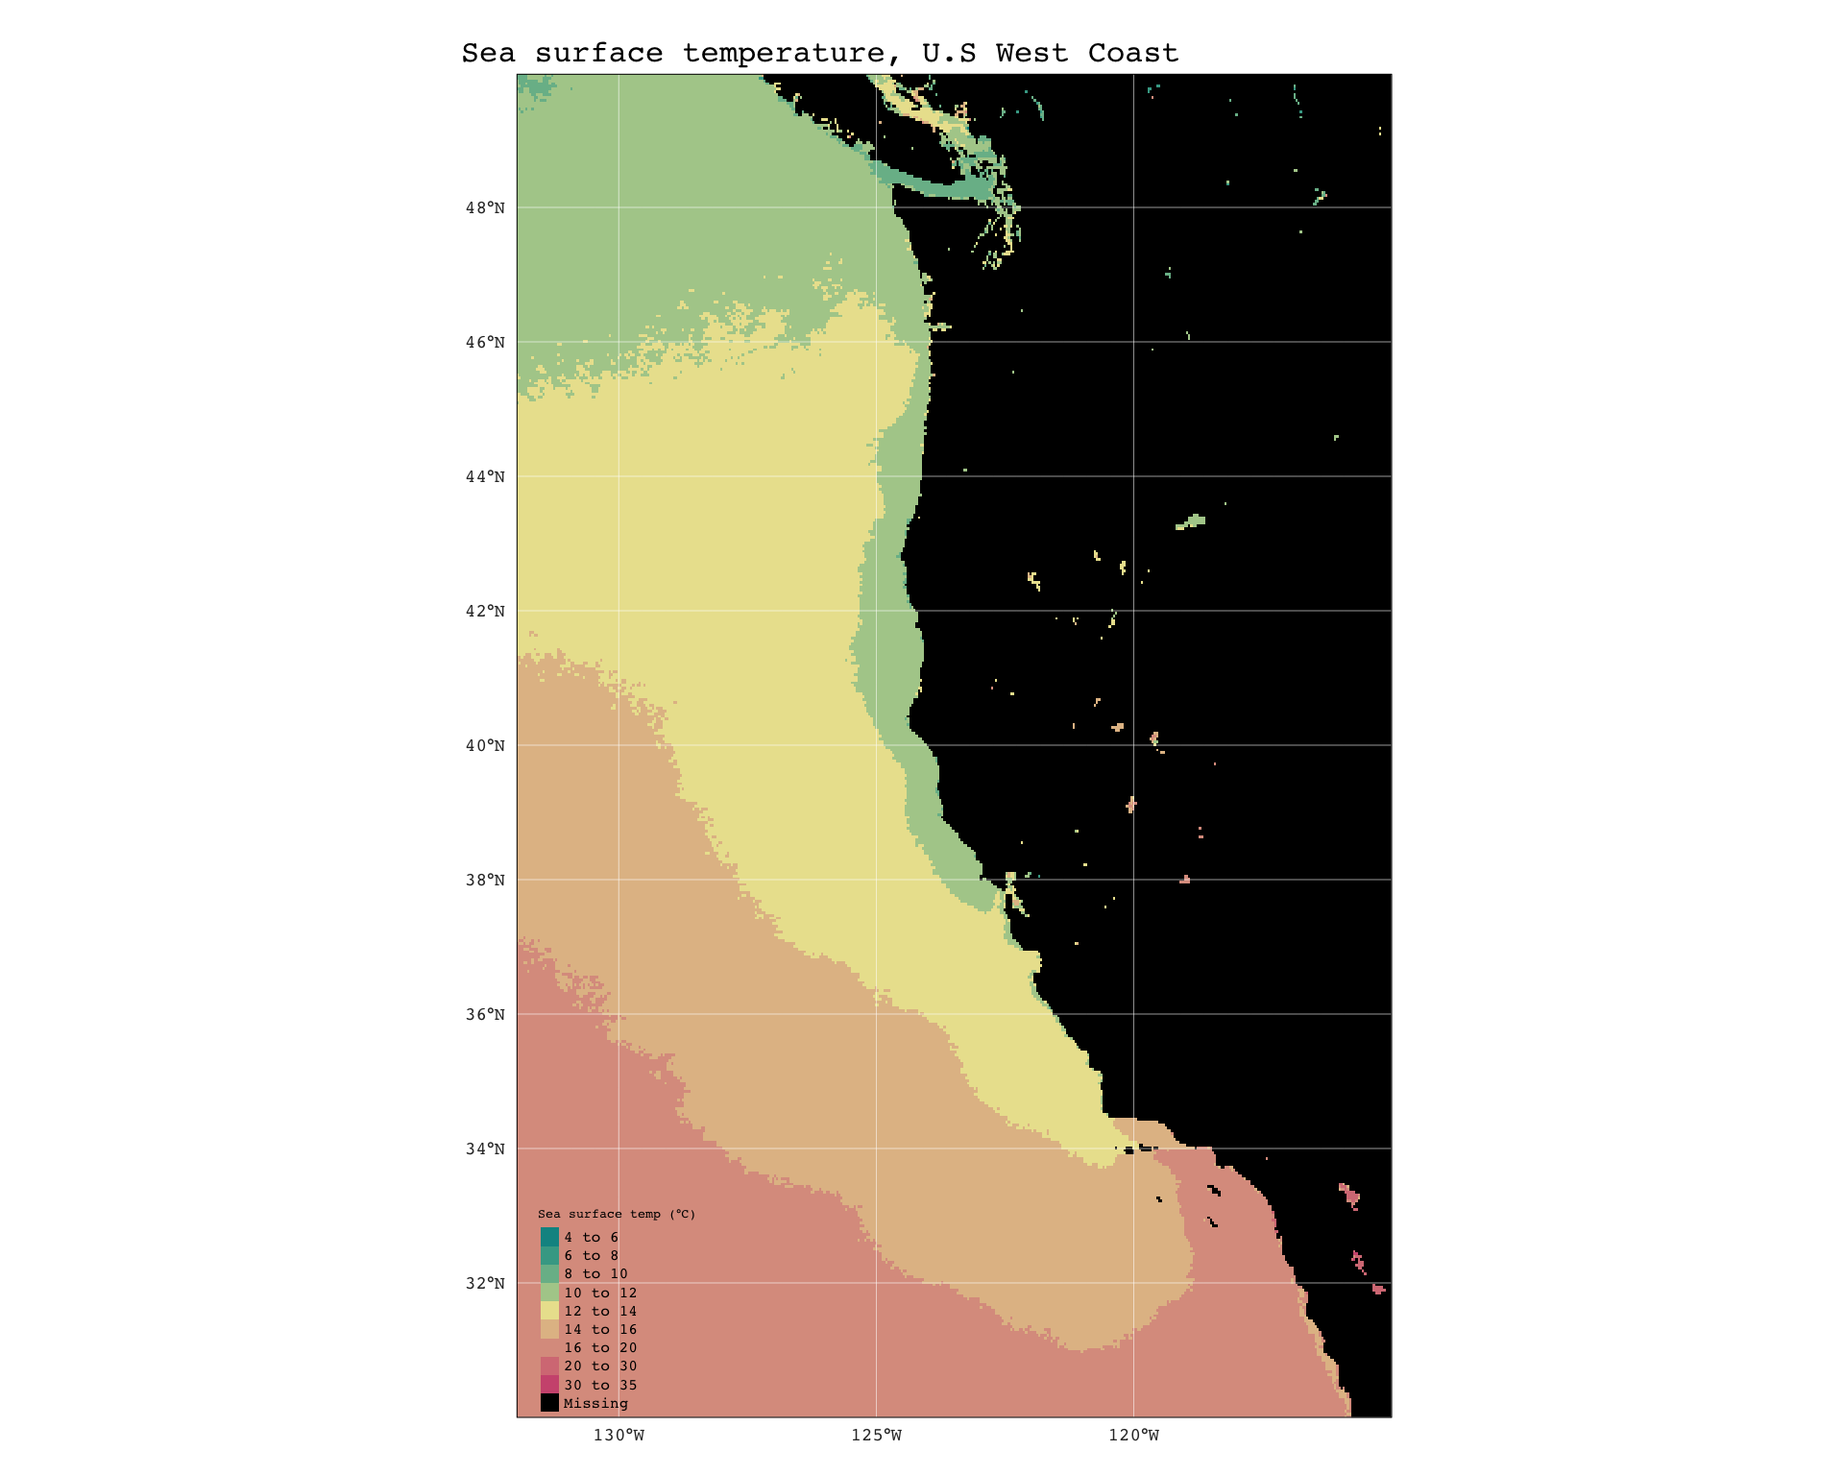
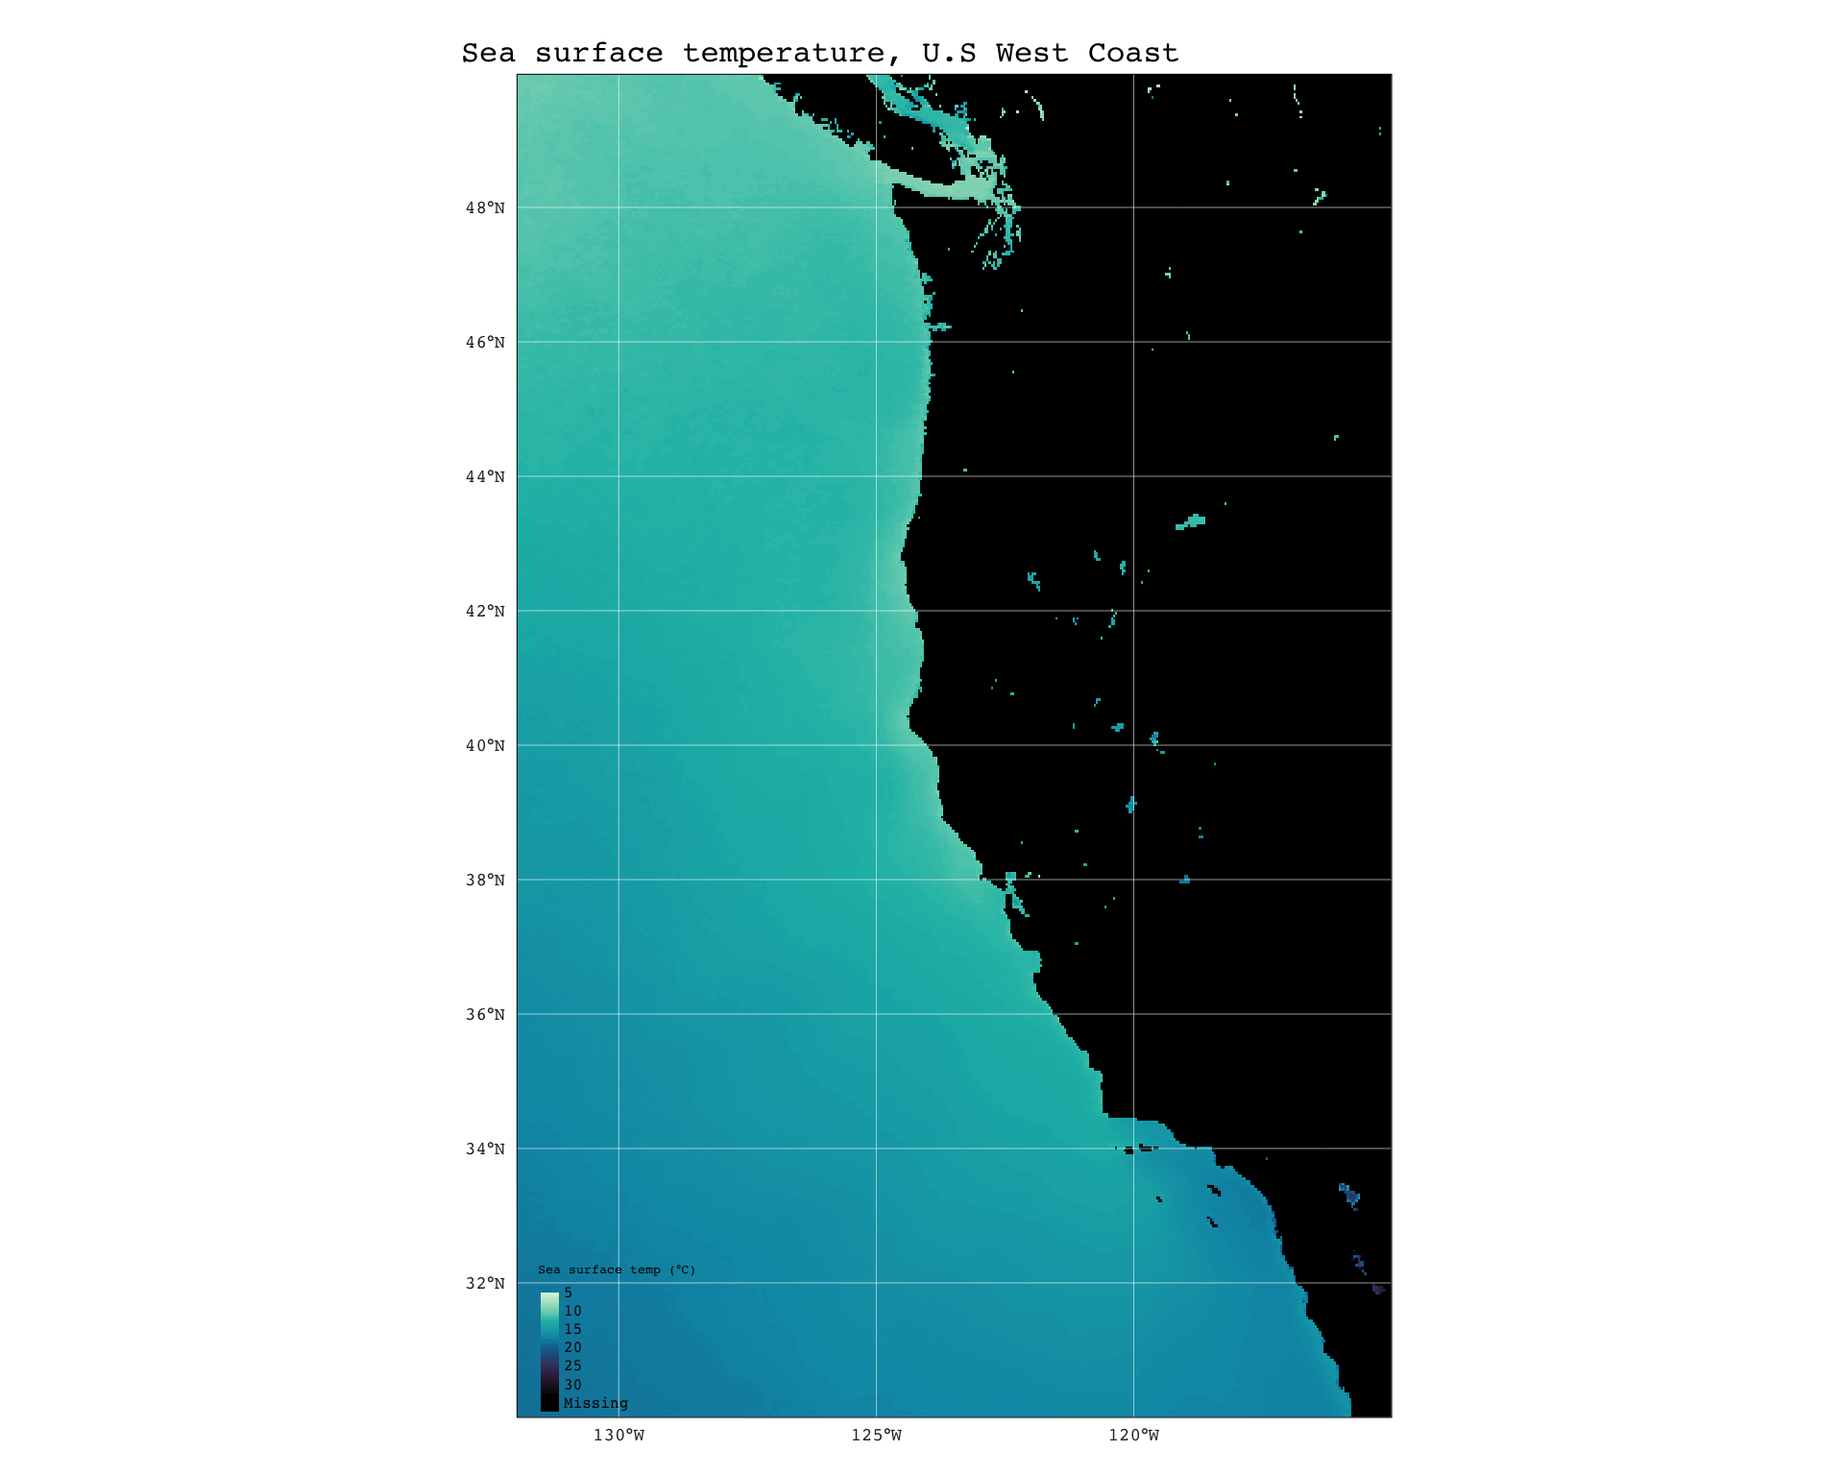
saving progress

Changed region(s): [[0.2812, 0.0312, 0.75, 0.9688]]

diff --git a/HW4.html b/HW4.html
@@ -172,8 +172,8 @@ pre > code.sourceCode > span > a:first-child::before { text-decoration: underlin
 </div>
 <div class="cell">
 <div class="sourceCode cell-code" id="cb12"><pre class="sourceCode r code-with-copy"><code class="sourceCode r"><span id="cb12-1"><a href="#cb12-1" aria-hidden="true" tabindex="-1"></a>map1 <span class="ot">&lt;-</span> <span class="fu">tm_shape</span>(mean_sst) <span class="sc">+</span></span>
-<span id="cb12-2"><a href="#cb12-2" aria-hidden="true" tabindex="-1"></a>  <span class="fu">tm_raster</span>(<span class="at">palette =</span> <span class="fu">hcl.colors</span>(<span class="dv">3</span>,<span class="st">"Temps"</span>),</span>
-<span id="cb12-3"><a href="#cb12-3" aria-hidden="true" tabindex="-1"></a>            <span class="at">breaks =</span> <span class="fu">c</span>(<span class="dv">4</span>,<span class="dv">6</span>,<span class="dv">8</span>,<span class="dv">10</span>,<span class="dv">12</span>,<span class="dv">14</span>,<span class="dv">16</span>,<span class="dv">20</span>,<span class="dv">30</span>,<span class="dv">35</span>),</span>
+<span id="cb12-2"><a href="#cb12-2" aria-hidden="true" tabindex="-1"></a>  <span class="fu">tm_raster</span>(<span class="at">palette =</span> <span class="fu">rev</span>(<span class="fu">hcl.colors</span>(<span class="dv">8</span>,<span class="st">"Mako"</span>)),</span>
+<span id="cb12-3"><a href="#cb12-3" aria-hidden="true" tabindex="-1"></a>            <span class="at">style =</span> <span class="st">"cont"</span>,</span>
 <span id="cb12-4"><a href="#cb12-4" aria-hidden="true" tabindex="-1"></a>            <span class="at">colorNA =</span> <span class="st">"black"</span>,</span>
 <span id="cb12-5"><a href="#cb12-5" aria-hidden="true" tabindex="-1"></a>            <span class="at">title =</span> <span class="st">"Sea surface temp (°C)"</span>,</span>
 <span id="cb12-6"><a href="#cb12-6" aria-hidden="true" tabindex="-1"></a>            ) <span class="sc">+</span></span>
@@ -220,47 +220,73 @@ pre > code.sourceCode > span > a:first-child::before { text-decoration: underlin
 <div class="cell">
 <div class="sourceCode cell-code" id="cb16"><pre class="sourceCode r code-with-copy"><code class="sourceCode r"><span id="cb16-1"><a href="#cb16-1" aria-hidden="true" tabindex="-1"></a><span class="co"># match extents and resample to mean_sst resolution using nearest neighbor ("near")</span></span>
 <span id="cb16-2"><a href="#cb16-2" aria-hidden="true" tabindex="-1"></a>depth_resampled <span class="ot">&lt;-</span> <span class="fu">st_warp</span>(depth,mean_sst, <span class="at">method =</span> <span class="st">"near"</span>)</span>
-<span id="cb16-3"><a href="#cb16-3" aria-hidden="true" tabindex="-1"></a></span>
-<span id="cb16-4"><a href="#cb16-4" aria-hidden="true" tabindex="-1"></a><span class="co"># stack to verify</span></span>
-<span id="cb16-5"><a href="#cb16-5" aria-hidden="true" tabindex="-1"></a>depth_sst <span class="ot">&lt;-</span> <span class="fu">c</span>(depth_resampled,mean_sst)</span>
-<span id="cb16-6"><a href="#cb16-6" aria-hidden="true" tabindex="-1"></a><span class="co"># stacked successfully </span></span></code><button title="Copy to Clipboard" class="code-copy-button"><i class="bi"></i></button></pre></div>
+<span id="cb16-3"><a href="#cb16-3" aria-hidden="true" tabindex="-1"></a><span class="co"># stack to verify</span></span>
+<span id="cb16-4"><a href="#cb16-4" aria-hidden="true" tabindex="-1"></a>depth_sst <span class="ot">&lt;-</span> <span class="fu">c</span>(depth_resampled,mean_sst)</span>
+<span id="cb16-5"><a href="#cb16-5" aria-hidden="true" tabindex="-1"></a><span class="co"># stacked successfully </span></span></code><button title="Copy to Clipboard" class="code-copy-button"><i class="bi"></i></button></pre></div>
 </div>
 </section>
 <section id="find-suitable-locations-for-oysters" class="level5">
 <h5 class="anchored" data-anchor-id="find-suitable-locations-for-oysters">Find suitable locations for oysters</h5>
 <div class="cell">
-<div class="sourceCode cell-code" id="cb17"><pre class="sourceCode r code-with-copy"><code class="sourceCode r"><span id="cb17-1"><a href="#cb17-1" aria-hidden="true" tabindex="-1"></a>rcl <span class="ot">&lt;-</span> <span class="fu">matrix</span>(<span class="fu">c</span>(<span class="sc">-</span><span class="cn">Inf</span>, <span class="dv">10</span>, <span class="cn">NA</span>,</span>
-<span id="cb17-2"><a href="#cb17-2" aria-hidden="true" tabindex="-1"></a>                 <span class="dv">11</span>, <span class="dv">30</span>, <span class="dv">1</span>,</span>
-<span id="cb17-3"><a href="#cb17-3" aria-hidden="true" tabindex="-1"></a>                 <span class="dv">31</span>, <span class="cn">Inf</span>, <span class="cn">NA</span>),</span>
+<div class="sourceCode cell-code" id="cb17"><pre class="sourceCode r code-with-copy"><code class="sourceCode r"><span id="cb17-1"><a href="#cb17-1" aria-hidden="true" tabindex="-1"></a>rcl <span class="ot">&lt;-</span> <span class="fu">matrix</span>(<span class="fu">c</span>(<span class="sc">-</span><span class="cn">Inf</span>, <span class="dv">11</span>, <span class="dv">0</span>,</span>
+<span id="cb17-2"><a href="#cb17-2" aria-hidden="true" tabindex="-1"></a>                <span class="dv">11</span>, <span class="dv">30</span>, <span class="dv">1</span>,</span>
+<span id="cb17-3"><a href="#cb17-3" aria-hidden="true" tabindex="-1"></a>                <span class="dv">30</span>, <span class="cn">Inf</span>, <span class="dv">0</span>),</span>
 <span id="cb17-4"><a href="#cb17-4" aria-hidden="true" tabindex="-1"></a>                <span class="at">ncol =</span> <span class="dv">3</span>, <span class="at">byrow =</span> <span class="cn">TRUE</span>)</span>
 <span id="cb17-5"><a href="#cb17-5" aria-hidden="true" tabindex="-1"></a></span>
-<span id="cb17-6"><a href="#cb17-6" aria-hidden="true" tabindex="-1"></a>reclassified <span class="ot">&lt;-</span> <span class="fu">classify</span>(<span class="fu">rast</span>(depth_resampled), <span class="at">rcl =</span> rcl)</span>
+<span id="cb17-6"><a href="#cb17-6" aria-hidden="true" tabindex="-1"></a>reclassified <span class="ot">&lt;-</span> <span class="fu">classify</span>(<span class="fu">rast</span>(mean_sst), <span class="at">rcl =</span> rcl)</span>
 <span id="cb17-7"><a href="#cb17-7" aria-hidden="true" tabindex="-1"></a></span>
-<span id="cb17-8"><a href="#cb17-8" aria-hidden="true" tabindex="-1"></a><span class="co"># reclassified[reclassified == 0] &lt;- NA </span></span>
-<span id="cb17-9"><a href="#cb17-9" aria-hidden="true" tabindex="-1"></a></span>
-<span id="cb17-10"><a href="#cb17-10" aria-hidden="true" tabindex="-1"></a>map2 <span class="ot">&lt;-</span> <span class="fu">tm_shape</span>(reclassified) <span class="sc">+</span></span>
-<span id="cb17-11"><a href="#cb17-11" aria-hidden="true" tabindex="-1"></a>  <span class="fu">tm_raster</span>(<span class="at">palette =</span> <span class="fu">hcl.colors</span>(<span class="dv">3</span>,<span class="st">"Temps"</span>),</span>
-<span id="cb17-12"><a href="#cb17-12" aria-hidden="true" tabindex="-1"></a>            <span class="at">breaks =</span> <span class="fu">seq</span>(<span class="dv">11</span>,<span class="dv">30</span>, <span class="at">by =</span> <span class="dv">1</span>),</span>
-<span id="cb17-13"><a href="#cb17-13" aria-hidden="true" tabindex="-1"></a>            <span class="at">colorNA =</span> <span class="st">"white"</span>,</span>
-<span id="cb17-14"><a href="#cb17-14" aria-hidden="true" tabindex="-1"></a>            <span class="at">title =</span> <span class="st">"Sea surface temp (°C)"</span>,</span>
-<span id="cb17-15"><a href="#cb17-15" aria-hidden="true" tabindex="-1"></a>            ) <span class="sc">+</span></span>
-<span id="cb17-16"><a href="#cb17-16" aria-hidden="true" tabindex="-1"></a>  <span class="fu">tm_graticules</span>(<span class="at">lwd =</span> <span class="fl">0.3</span>, </span>
-<span id="cb17-17"><a href="#cb17-17" aria-hidden="true" tabindex="-1"></a>                <span class="at">col =</span> <span class="st">"white"</span>) <span class="sc">+</span></span>
-<span id="cb17-18"><a href="#cb17-18" aria-hidden="true" tabindex="-1"></a>  <span class="fu">tm_layout</span>(<span class="at">fontfamily =</span> <span class="st">"courier"</span>,</span>
-<span id="cb17-19"><a href="#cb17-19" aria-hidden="true" tabindex="-1"></a>            <span class="at">main.title =</span> <span class="st">"Sea surface temperature, U.S West Coast"</span>,</span>
-<span id="cb17-20"><a href="#cb17-20" aria-hidden="true" tabindex="-1"></a>            <span class="at">main.title.size =</span> <span class="dv">1</span>,</span>
-<span id="cb17-21"><a href="#cb17-21" aria-hidden="true" tabindex="-1"></a>            <span class="at">legend.position =</span> <span class="fu">c</span>(<span class="st">"left"</span>,<span class="st">"BOTTOM"</span>),</span>
-<span id="cb17-22"><a href="#cb17-22" aria-hidden="true" tabindex="-1"></a>            <span class="at">legend.text.size =</span> <span class="fl">0.5</span>,</span>
-<span id="cb17-23"><a href="#cb17-23" aria-hidden="true" tabindex="-1"></a>            <span class="at">legend.title.color =</span> <span class="st">"black"</span>,</span>
-<span id="cb17-24"><a href="#cb17-24" aria-hidden="true" tabindex="-1"></a>            <span class="at">legend.text.color =</span> <span class="st">"black"</span>,</span>
-<span id="cb17-25"><a href="#cb17-25" aria-hidden="true" tabindex="-1"></a>            <span class="at">legend.height =</span> <span class="dv">5</span>,</span>
-<span id="cb17-26"><a href="#cb17-26" aria-hidden="true" tabindex="-1"></a>            <span class="at">legend.title.size =</span> <span class="fl">0.5</span>)</span>
-<span id="cb17-27"><a href="#cb17-27" aria-hidden="true" tabindex="-1"></a></span>
-<span id="cb17-28"><a href="#cb17-28" aria-hidden="true" tabindex="-1"></a>map2</span></code><button title="Copy to Clipboard" class="code-copy-button"><i class="bi"></i></button></pre></div>
+<span id="cb17-8"><a href="#cb17-8" aria-hidden="true" tabindex="-1"></a>map2 <span class="ot">&lt;-</span> <span class="fu">tm_shape</span>(reclassified <span class="sc">==</span> <span class="dv">1</span>) <span class="sc">+</span></span>
+<span id="cb17-9"><a href="#cb17-9" aria-hidden="true" tabindex="-1"></a>  <span class="fu">tm_raster</span>(<span class="at">palette =</span> <span class="fu">c</span>(<span class="st">"indianred"</span>,<span class="st">"skyblue"</span>),</span>
+<span id="cb17-10"><a href="#cb17-10" aria-hidden="true" tabindex="-1"></a>            <span class="at">style =</span> <span class="st">"cat"</span>,</span>
+<span id="cb17-11"><a href="#cb17-11" aria-hidden="true" tabindex="-1"></a>            <span class="at">breaks =</span> <span class="fu">c</span>(<span class="dv">11</span>,<span class="dv">14</span>, <span class="dv">17</span>, <span class="dv">20</span>, <span class="dv">23</span>, <span class="dv">26</span>, <span class="dv">29</span>, <span class="dv">30</span>),</span>
+<span id="cb17-12"><a href="#cb17-12" aria-hidden="true" tabindex="-1"></a>            <span class="at">colorNA =</span> <span class="st">"black"</span>,</span>
+<span id="cb17-13"><a href="#cb17-13" aria-hidden="true" tabindex="-1"></a>            <span class="at">title =</span> <span class="st">"Sea surface temp (°C)"</span>,</span>
+<span id="cb17-14"><a href="#cb17-14" aria-hidden="true" tabindex="-1"></a>            ) <span class="sc">+</span></span>
+<span id="cb17-15"><a href="#cb17-15" aria-hidden="true" tabindex="-1"></a>  <span class="fu">tm_graticules</span>(<span class="at">lwd =</span> <span class="fl">0.3</span>, </span>
+<span id="cb17-16"><a href="#cb17-16" aria-hidden="true" tabindex="-1"></a>                <span class="at">col =</span> <span class="st">"white"</span>) <span class="sc">+</span></span>
+<span id="cb17-17"><a href="#cb17-17" aria-hidden="true" tabindex="-1"></a>  <span class="fu">tm_layout</span>(<span class="at">fontfamily =</span> <span class="st">"courier"</span>,</span>
+<span id="cb17-18"><a href="#cb17-18" aria-hidden="true" tabindex="-1"></a>            <span class="at">main.title =</span> <span class="st">"Sea surface temperature, U.S West Coast"</span>,</span>
+<span id="cb17-19"><a href="#cb17-19" aria-hidden="true" tabindex="-1"></a>            <span class="at">main.title.size =</span> <span class="dv">1</span>,</span>
+<span id="cb17-20"><a href="#cb17-20" aria-hidden="true" tabindex="-1"></a>            <span class="at">legend.position =</span> <span class="fu">c</span>(<span class="st">"left"</span>,<span class="st">"BOTTOM"</span>),</span>
+<span id="cb17-21"><a href="#cb17-21" aria-hidden="true" tabindex="-1"></a>            <span class="at">legend.text.size =</span> <span class="fl">0.5</span>,</span>
+<span id="cb17-22"><a href="#cb17-22" aria-hidden="true" tabindex="-1"></a>            <span class="at">legend.title.color =</span> <span class="st">"white"</span>,</span>
+<span id="cb17-23"><a href="#cb17-23" aria-hidden="true" tabindex="-1"></a>            <span class="at">legend.text.color =</span> <span class="st">"white"</span>,</span>
+<span id="cb17-24"><a href="#cb17-24" aria-hidden="true" tabindex="-1"></a>            <span class="at">legend.height =</span> <span class="dv">5</span>,</span>
+<span id="cb17-25"><a href="#cb17-25" aria-hidden="true" tabindex="-1"></a>            <span class="at">legend.title.size =</span> <span class="fl">0.5</span>,</span>
+<span id="cb17-26"><a href="#cb17-26" aria-hidden="true" tabindex="-1"></a>            <span class="at">inner.margins =</span> <span class="fu">c</span>(<span class="fl">0.001</span>, <span class="fl">0.001</span>, <span class="fl">0.001</span>, <span class="fl">0.001</span>))</span>
+<span id="cb17-27"><a href="#cb17-27" aria-hidden="true" tabindex="-1"></a>map2</span></code><button title="Copy to Clipboard" class="code-copy-button"><i class="bi"></i></button></pre></div>
 <div class="cell-output-display">
 <div>
 <figure class="figure">
-<p><img src="HW4_files/figure-html/unnamed-chunk-8-1.png" class="img-fluid figure-img" width="672"></p>
+<p><img src="HW4_files/figure-html/unnamed-chunk-8-1.png" class="img-fluid figure-img" width="960"></p>
+</figure>
+</div>
+</div>
+</div>
+<div class="cell">
+<div class="sourceCode cell-code" id="cb18"><pre class="sourceCode r code-with-copy"><code class="sourceCode r"><span id="cb18-1"><a href="#cb18-1" aria-hidden="true" tabindex="-1"></a>map3 <span class="ot">&lt;-</span> <span class="fu">tm_shape</span>(depth_resampled) <span class="sc">+</span></span>
+<span id="cb18-2"><a href="#cb18-2" aria-hidden="true" tabindex="-1"></a>  <span class="fu">tm_raster</span>(<span class="at">palette =</span> <span class="fu">rev</span>(<span class="fu">hcl.colors</span>(<span class="dv">8</span>,<span class="st">"Mako"</span>)),</span>
+<span id="cb18-3"><a href="#cb18-3" aria-hidden="true" tabindex="-1"></a>            <span class="at">style =</span> <span class="st">"cont"</span>,</span>
+<span id="cb18-4"><a href="#cb18-4" aria-hidden="true" tabindex="-1"></a>            <span class="at">colorNA =</span> <span class="st">"black"</span>,</span>
+<span id="cb18-5"><a href="#cb18-5" aria-hidden="true" tabindex="-1"></a>            <span class="at">title =</span> <span class="st">"Sea surface temp (°C)"</span>,</span>
+<span id="cb18-6"><a href="#cb18-6" aria-hidden="true" tabindex="-1"></a>            ) <span class="sc">+</span></span>
+<span id="cb18-7"><a href="#cb18-7" aria-hidden="true" tabindex="-1"></a>  <span class="fu">tm_graticules</span>(<span class="at">lwd =</span> <span class="fl">0.3</span>, </span>
+<span id="cb18-8"><a href="#cb18-8" aria-hidden="true" tabindex="-1"></a>                <span class="at">col =</span> <span class="st">"white"</span>) <span class="sc">+</span></span>
+<span id="cb18-9"><a href="#cb18-9" aria-hidden="true" tabindex="-1"></a>  <span class="fu">tm_layout</span>(<span class="at">fontfamily =</span> <span class="st">"courier"</span>,</span>
+<span id="cb18-10"><a href="#cb18-10" aria-hidden="true" tabindex="-1"></a>            <span class="at">main.title =</span> <span class="st">"Depth, U.S West Coast"</span>,</span>
+<span id="cb18-11"><a href="#cb18-11" aria-hidden="true" tabindex="-1"></a>            <span class="at">main.title.size =</span> <span class="dv">1</span>,</span>
+<span id="cb18-12"><a href="#cb18-12" aria-hidden="true" tabindex="-1"></a>            <span class="at">legend.position =</span> <span class="fu">c</span>(<span class="st">"left"</span>,<span class="st">"BOTTOM"</span>),</span>
+<span id="cb18-13"><a href="#cb18-13" aria-hidden="true" tabindex="-1"></a>            <span class="at">legend.text.size =</span> <span class="fl">0.5</span>,</span>
+<span id="cb18-14"><a href="#cb18-14" aria-hidden="true" tabindex="-1"></a>            <span class="at">legend.title.color =</span> <span class="st">"black"</span>,</span>
+<span id="cb18-15"><a href="#cb18-15" aria-hidden="true" tabindex="-1"></a>            <span class="at">legend.text.color =</span> <span class="st">"black"</span>,</span>
+<span id="cb18-16"><a href="#cb18-16" aria-hidden="true" tabindex="-1"></a>            <span class="at">legend.height =</span> <span class="dv">5</span>,</span>
+<span id="cb18-17"><a href="#cb18-17" aria-hidden="true" tabindex="-1"></a>            <span class="at">legend.title.size =</span> <span class="fl">0.5</span>)</span>
+<span id="cb18-18"><a href="#cb18-18" aria-hidden="true" tabindex="-1"></a></span>
+<span id="cb18-19"><a href="#cb18-19" aria-hidden="true" tabindex="-1"></a>map1</span></code><button title="Copy to Clipboard" class="code-copy-button"><i class="bi"></i></button></pre></div>
+<div class="cell-output-display">
+<div>
+<figure class="figure">
+<p><img src="HW4_files/figure-html/unnamed-chunk-9-1.png" class="img-fluid figure-img" width="672"></p>
 </figure>
 </div>
 </div>
